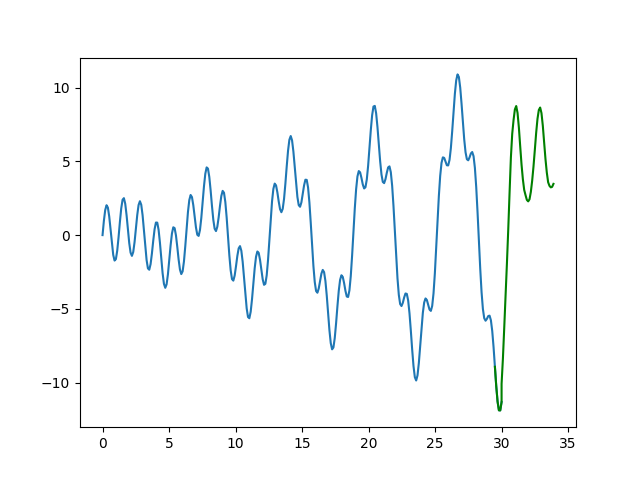
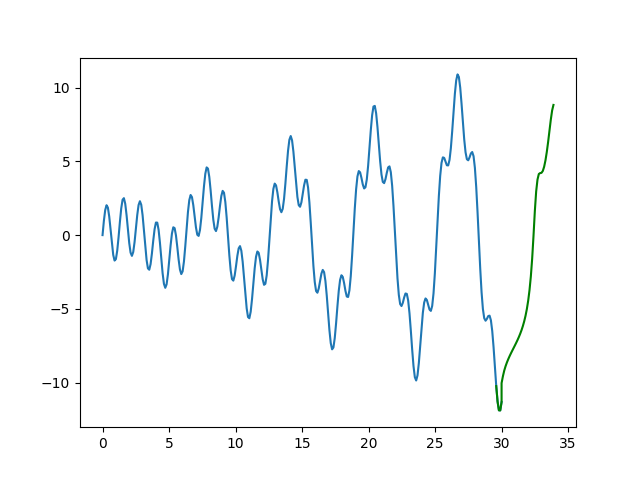
-

Changed region(s): [[0.7812, 0.2188, 0.875, 0.7812]]

diff --git a/algs/lstm/lstm.tex b/algs/lstm/lstm.tex
@@ -97,12 +97,12 @@ import matplotlib.pyplot as plt
 
 np.random.seed(1)
 
-LSTM_SIZE = 50
+LSTM_SIZE = 30
 t_min, t_max = 0, 30
 resolution = 0.1
-sequence_length = 6
+sequence_length = 5
 instruction_count = 1
-epoch = 1000
+epoch = 500
 
 def f(t):
     return t * np.sin(t) / 3 + 2 * np.sin(t*5)
@@ -288,56 +288,56 @@ for i in range(epoch):
  [ 4.64858624]
  [ 4.22911632]]
 3.29137489194
-Epoch   20 | mean squ error  3550.5
-Epoch   40 | mean squ error  2874.3
-Epoch   60 | mean squ error  2236.5
-Epoch   80 | mean squ error  963.5
-Epoch  100 | mean squ error  443.3
-Epoch  120 | mean squ error  341.5
-Epoch  140 | mean squ error  279.1
-Epoch  160 | mean squ error  240.0
-Epoch  180 | mean squ error  214.4
-Epoch  200 | mean squ error  196.3
-Epoch  220 | mean squ error  181.4
-Epoch  240 | mean squ error  167.6
-Epoch  260 | mean squ error  153.8
-Epoch  280 | mean squ error  139.8
-Epoch  300 | mean squ error  125.7
-Epoch  320 | mean squ error  111.8
-Epoch  340 | mean squ error  98.3
-Epoch  360 | mean squ error  85.7
-Epoch  380 | mean squ error  74.0
-Epoch  400 | mean squ error  63.5
-Epoch  420 | mean squ error  54.2
-Epoch  440 | mean squ error  46.2
-Epoch  460 | mean squ error  39.7
-Epoch  480 | mean squ error  34.4
-Epoch  500 | mean squ error  30.3
-Epoch  520 | mean squ error  27.1
-Epoch  540 | mean squ error  24.5
-Epoch  560 | mean squ error  22.5
-Epoch  580 | mean squ error  20.9
-Epoch  600 | mean squ error  19.6
-Epoch  620 | mean squ error  18.7
-Epoch  640 | mean squ error  17.9
-Epoch  660 | mean squ error  17.3
-Epoch  680 | mean squ error  16.9
-Epoch  700 | mean squ error  16.5
-Epoch  720 | mean squ error  16.2
-Epoch  740 | mean squ error  16.0
-Epoch  760 | mean squ error  15.7
-Epoch  780 | mean squ error  15.5
-Epoch  800 | mean squ error  15.3
-Epoch  820 | mean squ error  15.2
-Epoch  840 | mean squ error  15.0
-Epoch  860 | mean squ error  14.8
-Epoch  880 | mean squ error  14.6
-Epoch  900 | mean squ error  14.5
-Epoch  920 | mean squ error  14.3
-Epoch  940 | mean squ error  14.2
-Epoch  960 | mean squ error  14.0
-Epoch  980 | mean squ error  13.8
-Epoch 1000 | mean squ error  13.7
+Epoch   20 | mean squ error  3498.1
+Epoch   40 | mean squ error  2751.1
+Epoch   60 | mean squ error  2111.2
+Epoch   80 | mean squ error  1134.6
+Epoch  100 | mean squ error  428.4
+Epoch  120 | mean squ error  298.8
+Epoch  140 | mean squ error  246.8
+Epoch  160 | mean squ error  212.3
+Epoch  180 | mean squ error  198.1
+Epoch  200 | mean squ error  186.3
+Epoch  220 | mean squ error  167.4
+Epoch  240 | mean squ error  151.6
+Epoch  260 | mean squ error  137.7
+Epoch  280 | mean squ error  123.8
+Epoch  300 | mean squ error  110.3
+Epoch  320 | mean squ error  97.4
+Epoch  340 | mean squ error  85.3
+Epoch  360 | mean squ error  74.3
+Epoch  380 | mean squ error  64.3
+Epoch  400 | mean squ error  55.5
+Epoch  420 | mean squ error  48.0
+Epoch  440 | mean squ error  41.6
+Epoch  460 | mean squ error  36.3
+Epoch  480 | mean squ error  32.0
+Epoch  500 | mean squ error  28.4
+Epoch  520 | mean squ error  25.4
+Epoch  540 | mean squ error  22.9
+Epoch  560 | mean squ error  20.8
+Epoch  580 | mean squ error  19.1
+Epoch  600 | mean squ error  17.7
+Epoch  620 | mean squ error  16.5
+Epoch  640 | mean squ error  15.6
+Epoch  660 | mean squ error  14.8
+Epoch  680 | mean squ error  14.2
+Epoch  700 | mean squ error  13.7
+Epoch  720 | mean squ error  13.3
+Epoch  740 | mean squ error  13.0
+Epoch  760 | mean squ error  12.6
+Epoch  780 | mean squ error  12.4
+Epoch  800 | mean squ error  12.1
+Epoch  820 | mean squ error  11.9
+Epoch  840 | mean squ error  11.6
+Epoch  860 | mean squ error  11.4
+Epoch  880 | mean squ error  11.2
+Epoch  900 | mean squ error  11.1
+Epoch  920 | mean squ error  10.9
+Epoch  940 | mean squ error  10.7
+Epoch  960 | mean squ error  10.6
+Epoch  980 | mean squ error  10.4
+Epoch 1000 | mean squ error  10.3
 \end{verbatim}
 
 
@@ -354,7 +354,7 @@ print sess.run(prediction, { data: tst_input  } )
 \end{minted}
 
 \begin{verbatim}
-[[ 3.21585393]]
+[[ 3.24201846]]
 \end{verbatim}
 
 
@@ -365,13 +365,10 @@ def f(t):
 t = np.linspace(t_min, t_max, int((t_max - t_min) / resolution))
 y = f(t)
 
-sequence_length = 6
-resolution = 0.1
-n_more = 40 # bu kadar daha uret
 newx = list(t[-sequence_length:])
 newy = list(y[-sequence_length:])
 
-for i in range(40):
+for i in range(40): # bu kadar daha uret
    tst_input = np.array(newy[-sequence_length:]).reshape(sequence_length,1)   
    res = sess.run(prediction, { data: [ tst_input ]  } )
    newy.append(res)
